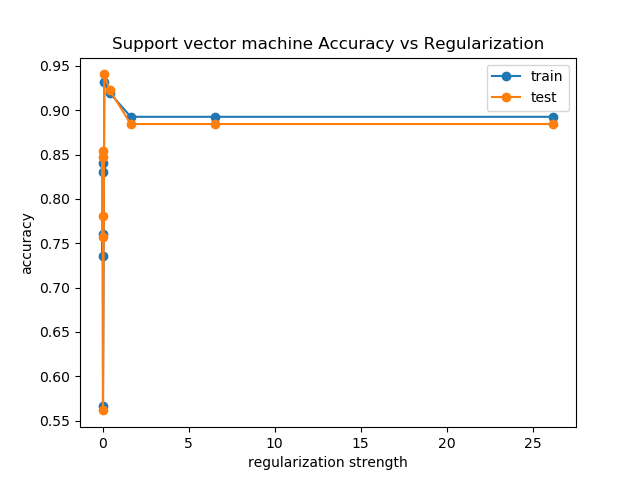
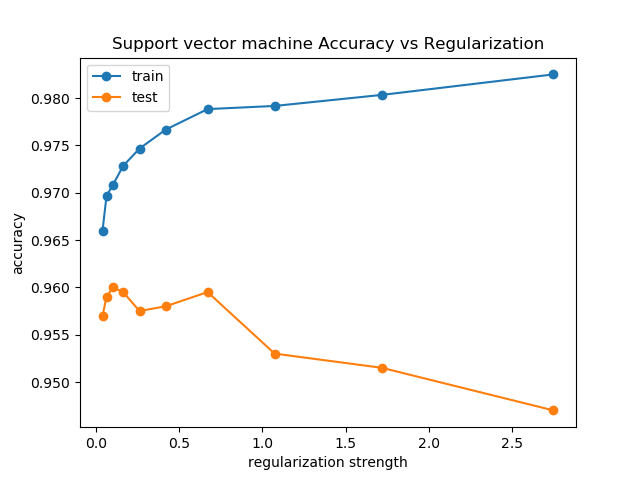
updated a2

diff --git a/assignment 2/main.py b/assignment 2/main.py
@@ -23,7 +23,8 @@ def process_data():
   x_train, y_train = filter_data(x_train, y_train)
   x_test, y_test = filter_data(x_test, y_test)
 
-  return ((x_train, y_train), (x_test, y_test))
+  mid = int(len(x_train) / 2)
+  return ((x_train, y_train), (x_test, y_test)), ((x_train[:mid], y_train[:mid]), (x_test, y_test))
 
 def plot(x_axis, train_scores, test_scores, title, name):
   fig, ax = plt.subplots()
@@ -49,7 +50,7 @@ def train(data, classifier, c_0, a, name, itterations=10):
     if classifier == 'lr':
       clf = LogisticRegression(penalty='l2', C=C).fit(x_train, y_train)
     else:
-      clf = SVC(kernel='linear', max_iter=200, C=C).fit(x_train, y_train)
+      clf = SVC(kernel='linear', C=C).fit(x_train, y_train)
     
     train_scores.append(clf.score(x_train, y_train))
     test_scores.append(clf.score(x_test, y_test))
@@ -67,8 +68,7 @@ def flat(l):
   return [i for s in l for i in s]
 
 def kfold(data, classifier, C, k):
-  train, test = data
-  x_train, y_train = train
+  x_train, y_train = data
 
   x_chunks = np.split(np.array(x_train), k)
   y_chunks = np.split(np.array(y_train), k)
@@ -93,17 +93,50 @@ def kfold(data, classifier, C, k):
 
     clf = None
     if classifier == 'lr':
-      clf = LogisticRegression(penalty='l2', C=C).fit(xi_train, yi_train)
+      clf = LogisticRegression(penalty='l2', max_iter=200, C=C).fit(xi_train, yi_train)
     else:
-      clf = SVC(kernel='linear', max_iter=200, C=C).fit(xi_train, yi_train)
+      clf = SVC(kernel='linear', C=C).fit(xi_train, yi_train)
 
     scores.append(clf.score(xi_test, yi_test))
 
-  return scores
+  return sum(scores) / len(scores)
+
+def verfify_kfold(data, classifier, C):
+  train, test = data
+  x_train, y_train = train
+  x_test, y_test = test
+
+  clf = None
+  if classifier == 'lr':
+    clf = LogisticRegression(penalty='l2', max_iter=200, C=C).fit(x_train, y_train)
+  else:
+    clf = SVC(kernel='linear', max_iter=200, C=C).fit(x_train, y_train)
+
+  train_score = clf.score(x_train, y_train)
+  test_score = clf.score(x_test, y_test)
+
+  print(f'{classifier} - training: {train_score} testing: {test_score}')
+
+def train_kfold(data, classifier, c_0, a, k=5, itterations=10):
+  train, test = data
+
+  results = []
+  print('training...')
+  for i in range(itterations):
+    print(f'itteration {i}')
+    results.append(kfold(train, classifier, c_0 * a ** i, k))
+
+  best = results.index(max(results))
+  
+  verfify_kfold(data, classifier, c_0 * a ** best)
 
 if __name__ == '__main__':
-  data = process_data()
+  print('processing data...')
+  data, half_data = process_data()
+  print('done processing!')
+  
   # train(data, 'lr', 0.0001, 4,"logistic regression")
-  # train(data, 'svm', 0.001, 2.7, "support vector machine")
+  #train(half_data, 'svm', 0.04, 1.6, "support vector machine")
 
-  print(kfold(data, 'lr', 0.02, 5))
+  # train_kfold(data, 'lr', 0.7, 1.1, k=5) # lr - training: 0.9738333333333333 testing: 0.9585
+  train_kfold(half_data, 'svm', 0.04, 1.5, k=5) # svm - training: 0.9115 testing: 0.907 
